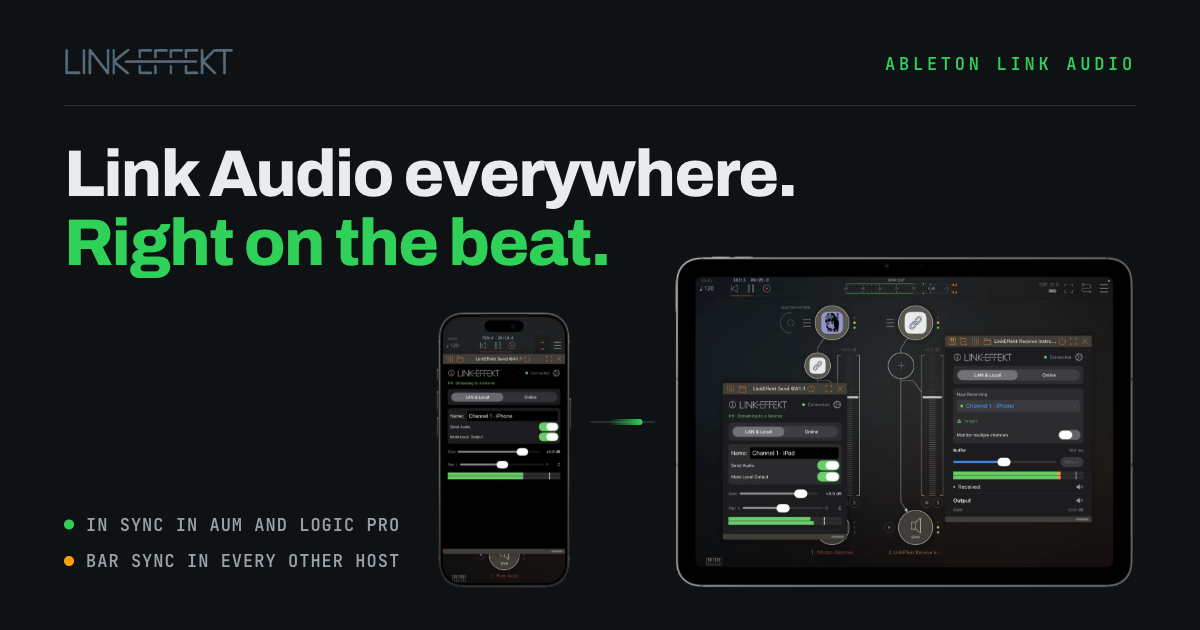
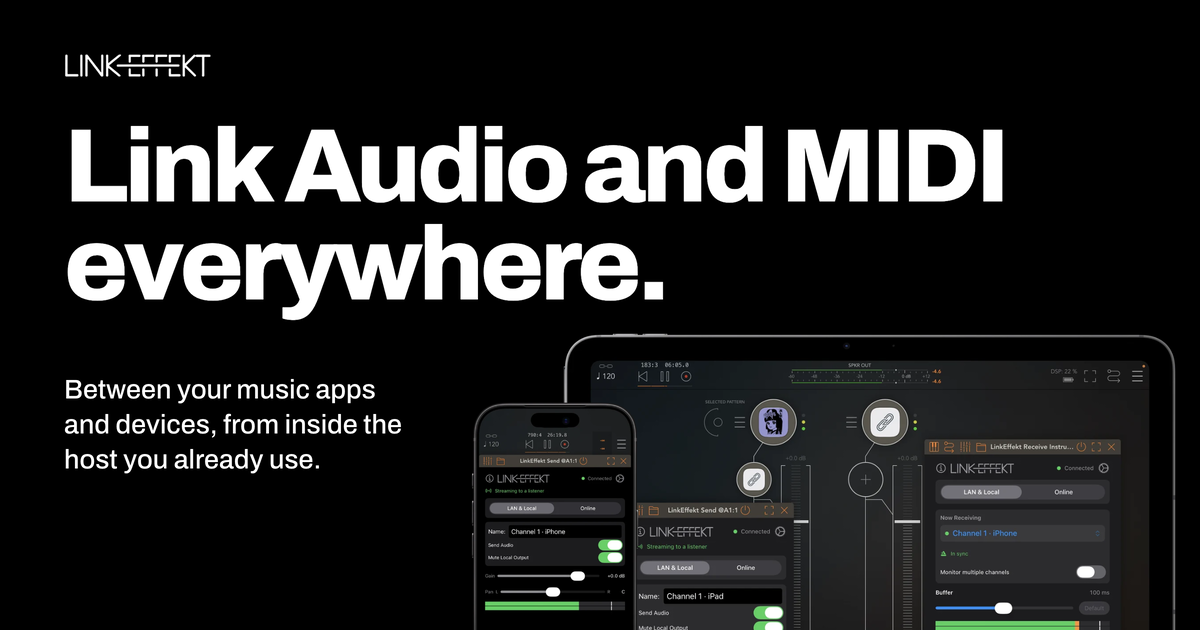
Preis im Unlimited-Feld, Host-Satz ohne doppelte Liste, Handbuch und Datenschutz in Schwarz-Weiß mit Archivo, Support-Adresse hello@linkeffekt.com, neues Vorschaubild

diff --git a/privacy.html b/privacy.html
@@ -7,10 +7,7 @@
 <meta name="description" content="LinkEffekt privacy policy: no accounts, no analytics, no audio on our servers.">
 <link rel="icon" type="image/png" href="favicon-64.png">
 <link rel="apple-touch-icon" href="icon-180.png">
-<link rel="preconnect" href="https://fonts.googleapis.com">
-<link rel="preconnect" href="https://fonts.gstatic.com" crossorigin>
-<link href="https://fonts.googleapis.com/css2?family=Archivo:wght@700;800&display=swap" rel="stylesheet">
-<link rel="stylesheet" href="style.css?v=4cbdfc31">
+<link rel="stylesheet" href="style.css?v=bw2">
 <script>try{var t=localStorage.getItem('le-theme');if(t==='light'||t==='dark')document.documentElement.setAttribute('data-theme',t)}catch(e){}</script>
 </head>
 <body>
@@ -23,7 +20,7 @@
     <nav class="site-nav">
       <a class="nav-secondary" href="./">Home</a>
       <a href="manual.html">Manual</a>
-      <a href="mailto:alexander.joannou@gmail.com">Support</a>
+      <a href="mailto:hello@linkeffekt.com">Support</a>
       <button type="button" class="theme-toggle" id="theme-toggle" aria-label="Switch between light and dark">
         <svg class="ico-sun" viewBox="0 0 20 20" aria-hidden="true"><circle cx="10" cy="10" r="3.6" fill="none" stroke="currentColor" stroke-width="1.6"/><path d="M10 1.8v2.2M10 16v2.2M1.8 10H4M16 10h2.2M4.2 4.2l1.6 1.6M14.2 14.2l1.6 1.6M4.2 15.8l1.6-1.6M14.2 5.8l1.6-1.6" stroke="currentColor" stroke-width="1.6" stroke-linecap="round"/></svg>
         <svg class="ico-moon" viewBox="0 0 20 20" aria-hidden="true"><path d="M16.5 12.6A7 7 0 0 1 7.4 3.5a7 7 0 1 0 9.1 9.1z" fill="none" stroke="currentColor" stroke-width="1.6" stroke-linejoin="round"/></svg>
@@ -63,7 +60,7 @@
   <p>The plugins keep a timing log on your device (buffer, latency, connection state) to help with support. It contains no audio and no project content, and it never leaves your device on its own: only you can send it, with Share diagnostics in the LinkEffekt app. From version 2.0.4 the log is encrypted so that only LinkEffekt support can read it, shows channel names only as short codes, and keeps the last seven days.</p>
 
   <h3>Contact</h3>
-  <p>For privacy-related questions: <a href="mailto:alexander.joannou@gmail.com">alexander.joannou@gmail.com</a></p>
+  <p>For privacy-related questions: <a href="mailto:hello@linkeffekt.com">hello@linkeffekt.com</a></p>
 
   <footer>
     <span><a class="backlink" href="./">← LinkEffekt</a></span>

diff --git a/manual.html b/manual.html
@@ -17,10 +17,7 @@
 <meta name="twitter:card" content="summary_large_image">
 <link rel="icon" type="image/png" href="favicon-64.png">
 <link rel="apple-touch-icon" href="icon-180.png">
-<link rel="preconnect" href="https://fonts.googleapis.com">
-<link rel="preconnect" href="https://fonts.gstatic.com" crossorigin>
-<link href="https://fonts.googleapis.com/css2?family=Archivo:wght@700;800&display=swap" rel="stylesheet">
-<link rel="stylesheet" href="style.css?v=4cbdfc31">
+<link rel="stylesheet" href="style.css?v=bw2">
 <script>document.documentElement.classList.add('js');try{var t=localStorage.getItem('le-theme');if(t==='light'||t==='dark')document.documentElement.setAttribute('data-theme',t)}catch(e){}</script>
 </head>
 <body class="manual">
@@ -33,7 +30,7 @@
     <nav class="site-nav">
       <a class="nav-secondary" href="./">Home</a>
       <a href="privacy.html">Privacy</a>
-      <a href="mailto:alexander.joannou@gmail.com">Support</a>
+      <a href="mailto:hello@linkeffekt.com">Support</a>
       <button type="button" class="theme-toggle" id="theme-toggle" aria-label="Switch between light and dark">
         <svg class="ico-sun" viewBox="0 0 20 20" aria-hidden="true"><circle cx="10" cy="10" r="3.6" fill="none" stroke="currentColor" stroke-width="1.6"/><path d="M10 1.8v2.2M10 16v2.2M1.8 10H4M16 10h2.2M4.2 4.2l1.6 1.6M14.2 14.2l1.6 1.6M4.2 15.8l1.6-1.6M14.2 5.8l1.6-1.6" stroke="currentColor" stroke-width="1.6" stroke-linecap="round"/></svg>
         <svg class="ico-moon" viewBox="0 0 20 20" aria-hidden="true"><path d="M16.5 12.6A7 7 0 0 1 7.4 3.5a7 7 0 1 0 9.1 9.1z" fill="none" stroke="currentColor" stroke-width="1.6" stroke-linejoin="round"/></svg>
@@ -1066,7 +1063,7 @@
 
   <footer>
     <span><a class="backlink" href="./">← LinkEffekt</a></span>
-    <span>Support: <a href="mailto:alexander.joannou@gmail.com">alexander.joannou@gmail.com</a>. Please include your host app and device, and attach the diagnostics (LinkEffekt app, <strong>Share diagnostics</strong>).</span>
+    <span>Support: <a href="mailto:hello@linkeffekt.com">hello@linkeffekt.com</a>. Please include your host app and device, and attach the diagnostics (LinkEffekt app, <strong>Share diagnostics</strong>).</span>
   </footer>
 
   </main>

diff --git a/index.html b/index.html
@@ -13,12 +13,12 @@
 <meta property="og:image" content="https://linkeffekt.com/og-home.png">
 <meta property="og:image:width" content="1200">
 <meta property="og:image:height" content="630">
-<meta property="og:image:alt" content="Link Audio everywhere, right on the beat: an iPhone running LinkEffekt Send streams over Wi-Fi to an iPad running LinkEffekt Receive, in sync.">
+<meta property="og:image:alt" content="Link Audio and MIDI everywhere: an iPhone running LinkEffekt Send and an iPad running LinkEffekt Receive in AUM.">
 <meta name="twitter:card" content="summary_large_image">
 <link rel="icon" type="image/png" href="favicon-64.png">
 <link rel="apple-touch-icon" href="icon-180.png">
 <link rel="preload" href="fonts/archivo-var.woff2" as="font" type="font/woff2" crossorigin>
-<link rel="stylesheet" href="home.css?v=21">
+<link rel="stylesheet" href="home.css?v=22">
 <script>document.documentElement.classList.add('js')</script>
 </head>
 <body>
@@ -100,7 +100,7 @@
 
 <section class="host" aria-labelledby="host-title">
   <h2 id="host-title">It runs inside the host you already use.</h2>
-  <p class="lead">Load LinkEffekt in AUM, Logic Pro, Cubasis, GarageBand, Drambo, Loopy Pro, djay or any other AUv3 host. No standalone routing app.</p>
+  <p class="lead">Load LinkEffekt as a plugin in any AUv3 host. No standalone routing app.</p>
   <div class="host-shots">
     <img src="img/home/plugin-send.webp" width="800" height="833" alt="LinkEffekt Send in AUM: Channel 1 · iPhone, its status line reads Streaming to a listener.">
     <img src="img/home/plugin-receive.webp" width="800" height="901" alt="LinkEffekt Receive in AUM, playing Channel 1 · iPad, status In sync, Buffer 100 ms.">
@@ -136,7 +136,7 @@
     </div>
     <div class="tier tier-full dark">
       <h3>LinkEffekt Unlimited</h3>
-      <p class="once">A one-time purchase.</p>
+      <p class="once">A one-time purchase, €14.99 in the App Store.</p>
       <ul>
         <li>Unlimited instances</li>
         <li>Several channels per Receive</li>

diff --git a/style.css b/style.css
@@ -723,3 +723,45 @@ html[data-theme="light"] .theme-toggle .ico-moon { display: block; }
 .tl .tl-ghost { fill: none; stroke: var(--faint); stroke-width: 1.2; stroke-dasharray: 3 2; }
 .tl .tl-arrow { fill: none; stroke: var(--muted); stroke-width: 1.3; }
 .tl .tl-head { fill: var(--muted); }
+
+/* ---------- same world as the homepage (09.11.2026) ----------
+   Pure black and white, Archivo for everything, self-hosted. Green and orange
+   stay what they are in the plugin: status, nothing else. */
+
+@font-face {
+  font-family: "Archivo";
+  src: url("fonts/archivo-var.woff2") format("woff2");
+  font-weight: 400 800;
+  font-stretch: 62% 125%;
+  font-display: swap;
+}
+
+:root {
+  --sans: "Archivo", Helvetica, sans-serif;
+  --bg: #000; --panel: #141414; --panel-2: #1c1c1c; --line: #2c2c2c;
+  --text: #fff; --prose: #e6e6e6; --muted: #a6a6a6; --faint: #8c8c8c;
+  --bar-bg: rgba(0, 0, 0, .94);
+}
+html[data-theme="light"] {
+  --bg: #fff; --panel: #f3f3f3; --panel-2: #e9e9e9; --line: #d6d6d6;
+  --text: #000; --prose: #1a1a1a; --muted: #4f4f4f; --faint: #6b6b6b;
+  --bar-bg: rgba(255, 255, 255, .94);
+}
+@media (prefers-color-scheme: light) {
+  html:not([data-theme="dark"]) {
+    --bg: #fff; --panel: #f3f3f3; --panel-2: #e9e9e9; --line: #d6d6d6;
+    --text: #000; --prose: #1a1a1a; --muted: #4f4f4f; --faint: #6b6b6b;
+    --bar-bg: rgba(255, 255, 255, .94);
+  }
+}
+body { font-weight: 450; }
+h1, h2 { letter-spacing: -.03em; }
+.hl { color: var(--text); }
+.site-nav { font-weight: 600; }
+.site-nav a { color: var(--text); text-decoration: underline; text-decoration-thickness: 2px; text-underline-offset: .22em; }
+::selection { background: var(--text); color: var(--bg); }
+.site-head img.logo { filter: brightness(0) invert(1); opacity: 1; }
+html[data-theme="light"] .site-head img.logo { filter: brightness(0); }
+@media (prefers-color-scheme: light) {
+  html:not([data-theme="dark"]) .site-head img.logo { filter: brightness(0); }
+}
